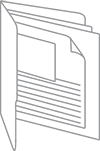
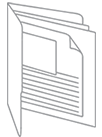
aligned nav bar - temp fix

Changed region(s): [[0.0, 0.0, 1.0, 1.0]]

diff --git a/work-projects.html b/work-projects.html
@@ -76,7 +76,7 @@
       <div class="work-container">
         <div class="row">
           <div class="two-column project">
-              <a href="http://smallconflict.com/banned-books/" target="_blank"><img src="Images/projects/btlcover.png" class="thumbnail"></a>
+              <a href="http://smallconflict.com/banned-books/" target="_blank"><img src="Images/projects/between-the-lines.gif" class="thumbnail"></a>
               <span class="pub">CLASS PROJECT</span>
               <a href="http://smallconflict.com/banned-books/" target="_blank"><h2 class="head">BETWEEN THE LINES</h2></a>
                 <p class="info">As the <a href="http://smallconflict.com/banned-books/" target="_blank">final project</a> for my Advanced Interactive Storytelling and Design class, I helped develop, design and illustrate for a story on the progression and technology behind fighting book censorship.

diff --git a/script.js b/script.js
@@ -6,6 +6,7 @@ $(".fancybox").fancybox();
 //Turn Nav Bar icons black when hovered over, temp solution (there may be a simpler way)
 	$("#home").hover(function(){
 		$("#home").attr("src", "Images/Nav/home-hover.png");
+		// $("#home").addClass("selected-nav");
 	});
 
 	$("#home").mouseleave(function(){
@@ -14,6 +15,7 @@ $(".fancybox").fancybox();
 
 	$("#work").hover(function(){
 		$("#work").attr("src", "Images/Nav/work-hover.png");
+		// $("#work").addClass("selected-nav");
 	});
 
 	$("#work").mouseleave(function(){

diff --git a/style.css b/style.css
@@ -49,17 +49,17 @@ h4{
 }
 
 #home, #work, #contact{
-	padding-bottom: 10px;
+	padding:2px 0 10px 0;
 	height:52px;
 }
 
 #contact{
-	padding-bottom: 10px;
+	padding: 1px 0 10px 0;
 	height:54px;
 }
 
 #resume{
-	padding: 0 0 4px 12px;
+	padding: 6px 0 4px 12px;
 	height:55px;
 }
 
